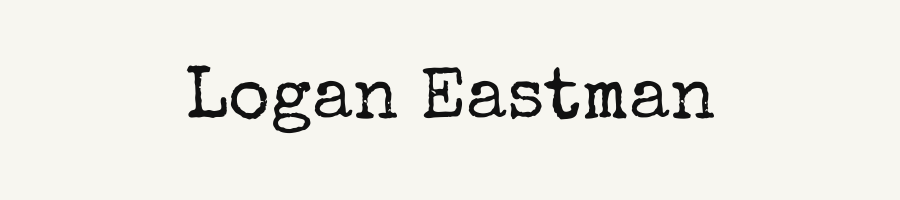
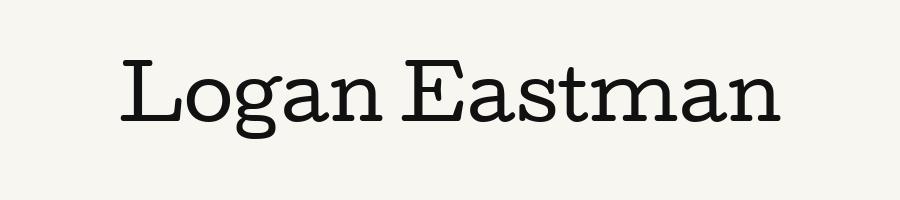
Add ghost section to work page, switch to Cutive font, update Substack assets

Changed region(s): [[0.1244, 0.3, 0.8711, 0.69]]

diff --git a/layouts/partials/head.html b/layouts/partials/head.html
@@ -10,6 +10,6 @@
 <meta name="twitter:card" content="summary_large_image">
 <link rel="preconnect" href="https://fonts.googleapis.com">
 <link rel="preconnect" href="https://fonts.gstatic.com" crossorigin>
-<link href="https://fonts.googleapis.com/css2?family=Special+Elite&family=Lora:ital,wght@0,400;0,600;1,400&family=Courier+Prime:ital@0;1&display=swap" rel="stylesheet">
+<link href="https://fonts.googleapis.com/css2?family=Cutive&family=Lora:ital,wght@0,400;0,600;1,400&family=Courier+Prime:ital@0;1&display=swap" rel="stylesheet">
 <link rel="icon" href="/favicon.svg" type="image/svg+xml">
 <link rel="stylesheet" href="/css/main.css">

diff --git a/static/css/main.css b/static/css/main.css
@@ -41,7 +41,7 @@ main {
 
 /* --- Typography --- */
 h1, h2, h3 {
-  font-family: 'Special Elite', 'Courier New', monospace;
+  font-family: 'Cutive', 'Courier New', monospace;
   font-weight: 400;
   letter-spacing: 0.02em;
   line-height: 1.3;
@@ -142,7 +142,7 @@ figcaption {
 }
 
 .site-nav .site-name {
-  font-family: 'Special Elite', 'Courier New', monospace;
+  font-family: 'Cutive', 'Courier New', monospace;
   font-size: 1.3rem;
   text-decoration: none;
   letter-spacing: 0.05em;

diff --git a/content/work.md b/content/work.md
@@ -24,6 +24,10 @@ As a strategist at [We First](http://www.wefirstbranding.com), a purpose-driven 
 - Respect people's complexity and intelligence.
 - AI requires pragmatism.
 
+<h3 class="convictions-heading">What does this look like? A ghost.</h3>
+
+I will help you craft your story and how it shows up — in a book, on your website, in a pitch deck. I will help you make novel connections and better workflows by harnessing the power of AI.
+
 <div class="work-cta">
 
 Interested? Say hello: [logan.eastman@gmail.com](mailto:logan.eastman@gmail.com)
